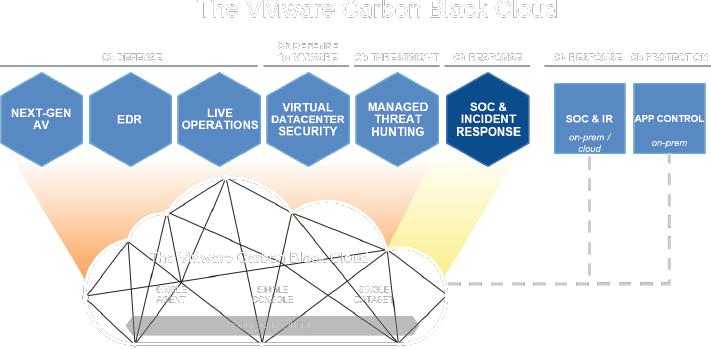
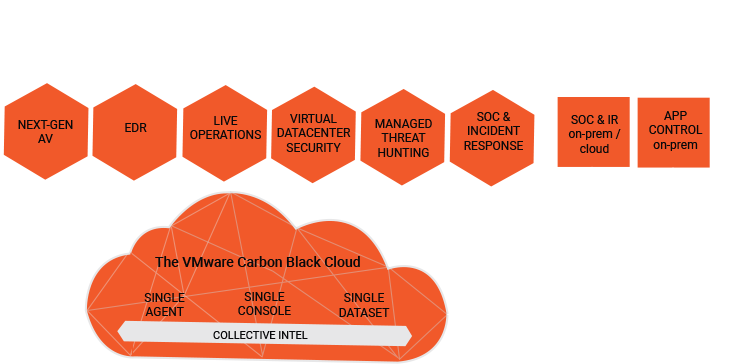
promenjene stavke za carbon black i df labs

diff --git a/public/assets/css/style.css b/public/assets/css/style.css
@@ -1341,12 +1341,13 @@ button.orange_btn:hover {
 }
 
 .df-labs-fourth-part {
-    background: linear-gradient(0deg,rgba(0,0,0,0.4),rgba(0,0,0,0.4)), url('../../images/web/df-labs-fourth-part-bg.png');
+    /* background: linear-gradient(0deg,rgba(0,0,0,0.4),rgba(0,0,0,0.4)), url('../../images/web/df-labs-fourth-part-bg.png');
     background-attachment: fixed;
     background-repeat: no-repeat;
     background-size: cover;
-    background-position: center;
+    background-position: center; */
 
+    background-color: #08090b;
 
     padding-top: 100px;
     padding-bottom: 100px;
@@ -1409,14 +1410,15 @@ button.orange_btn:hover {
 }
 
 .df-labs-sixth-part {
-    background-image: url('../../images/web/df-labs-sixth-part-bg.png');
+    /* background-image: url('../../images/web/df-labs-sixth-part-bg.png');
     background-attachment: fixed;
     background-repeat: no-repeat;
     background-position: center;
-    background-size: cover;
+    background-size: cover; */
     position: relative;
     padding-top: 60px;
     padding-bottom: 60px;
+    background-color: #08090b;
 }
 
 .df-labs-sixth-part-overlay {
@@ -1864,10 +1866,12 @@ button.orange_btn:hover {
 .carbon-black-sixth-part {
     padding-top: 80px;
     padding-bottom: 80px;
-    background-image: url('../../images/web/sky-bg-pattern.png');
+    /* background-image: url('../../images/web/sky-bg-pattern.png');
     background-repeat: no-repeat;
     background-position: center;
-    background-size: cover;
+    background-size: cover; */
+
+    background-color: #08090b;
 }
 
 .carbon-black-sixth-part-right ul {
@@ -1877,18 +1881,19 @@ button.orange_btn:hover {
 .carbon-black-sixth-part-right ul li p{
     font-size: 18px;
     font-weight: 400;
-    color: #231f20;
+    color: #fff;
 }
 
 .carbon-black-sixth-part-left h3 {
     font-size: 30px;
+    color: #fff;
 }
 
 
 .carbon-black-sixth-part-left p {
     font-size: 18px;
     font-weight: 400;
-    color: #231f20;
+    color: #fff;
 }
 
 .carbon-black-sixth-part-left img {

diff --git a/resources/views/carbon-black.blade.php b/resources/views/carbon-black.blade.php
@@ -57,7 +57,7 @@
                 <div class="row">
                     <div class="col-md-6">
                         <div class="df-labs-second-part-left ">
-                            <h1 class="mb-5">The VMware Carbon Black Cloud</h1>
+                            <h1 class="mb-5 orange_text">The VMware Carbon Black Cloud</h1>
                             <h2 class="text-white mb-3">Consolidated Endpoint Security</h2>
                             <h4 class="text-white mb-3">Simplify Your Security Stack <br> and Improve Your Protection</h4>
                         </div>
